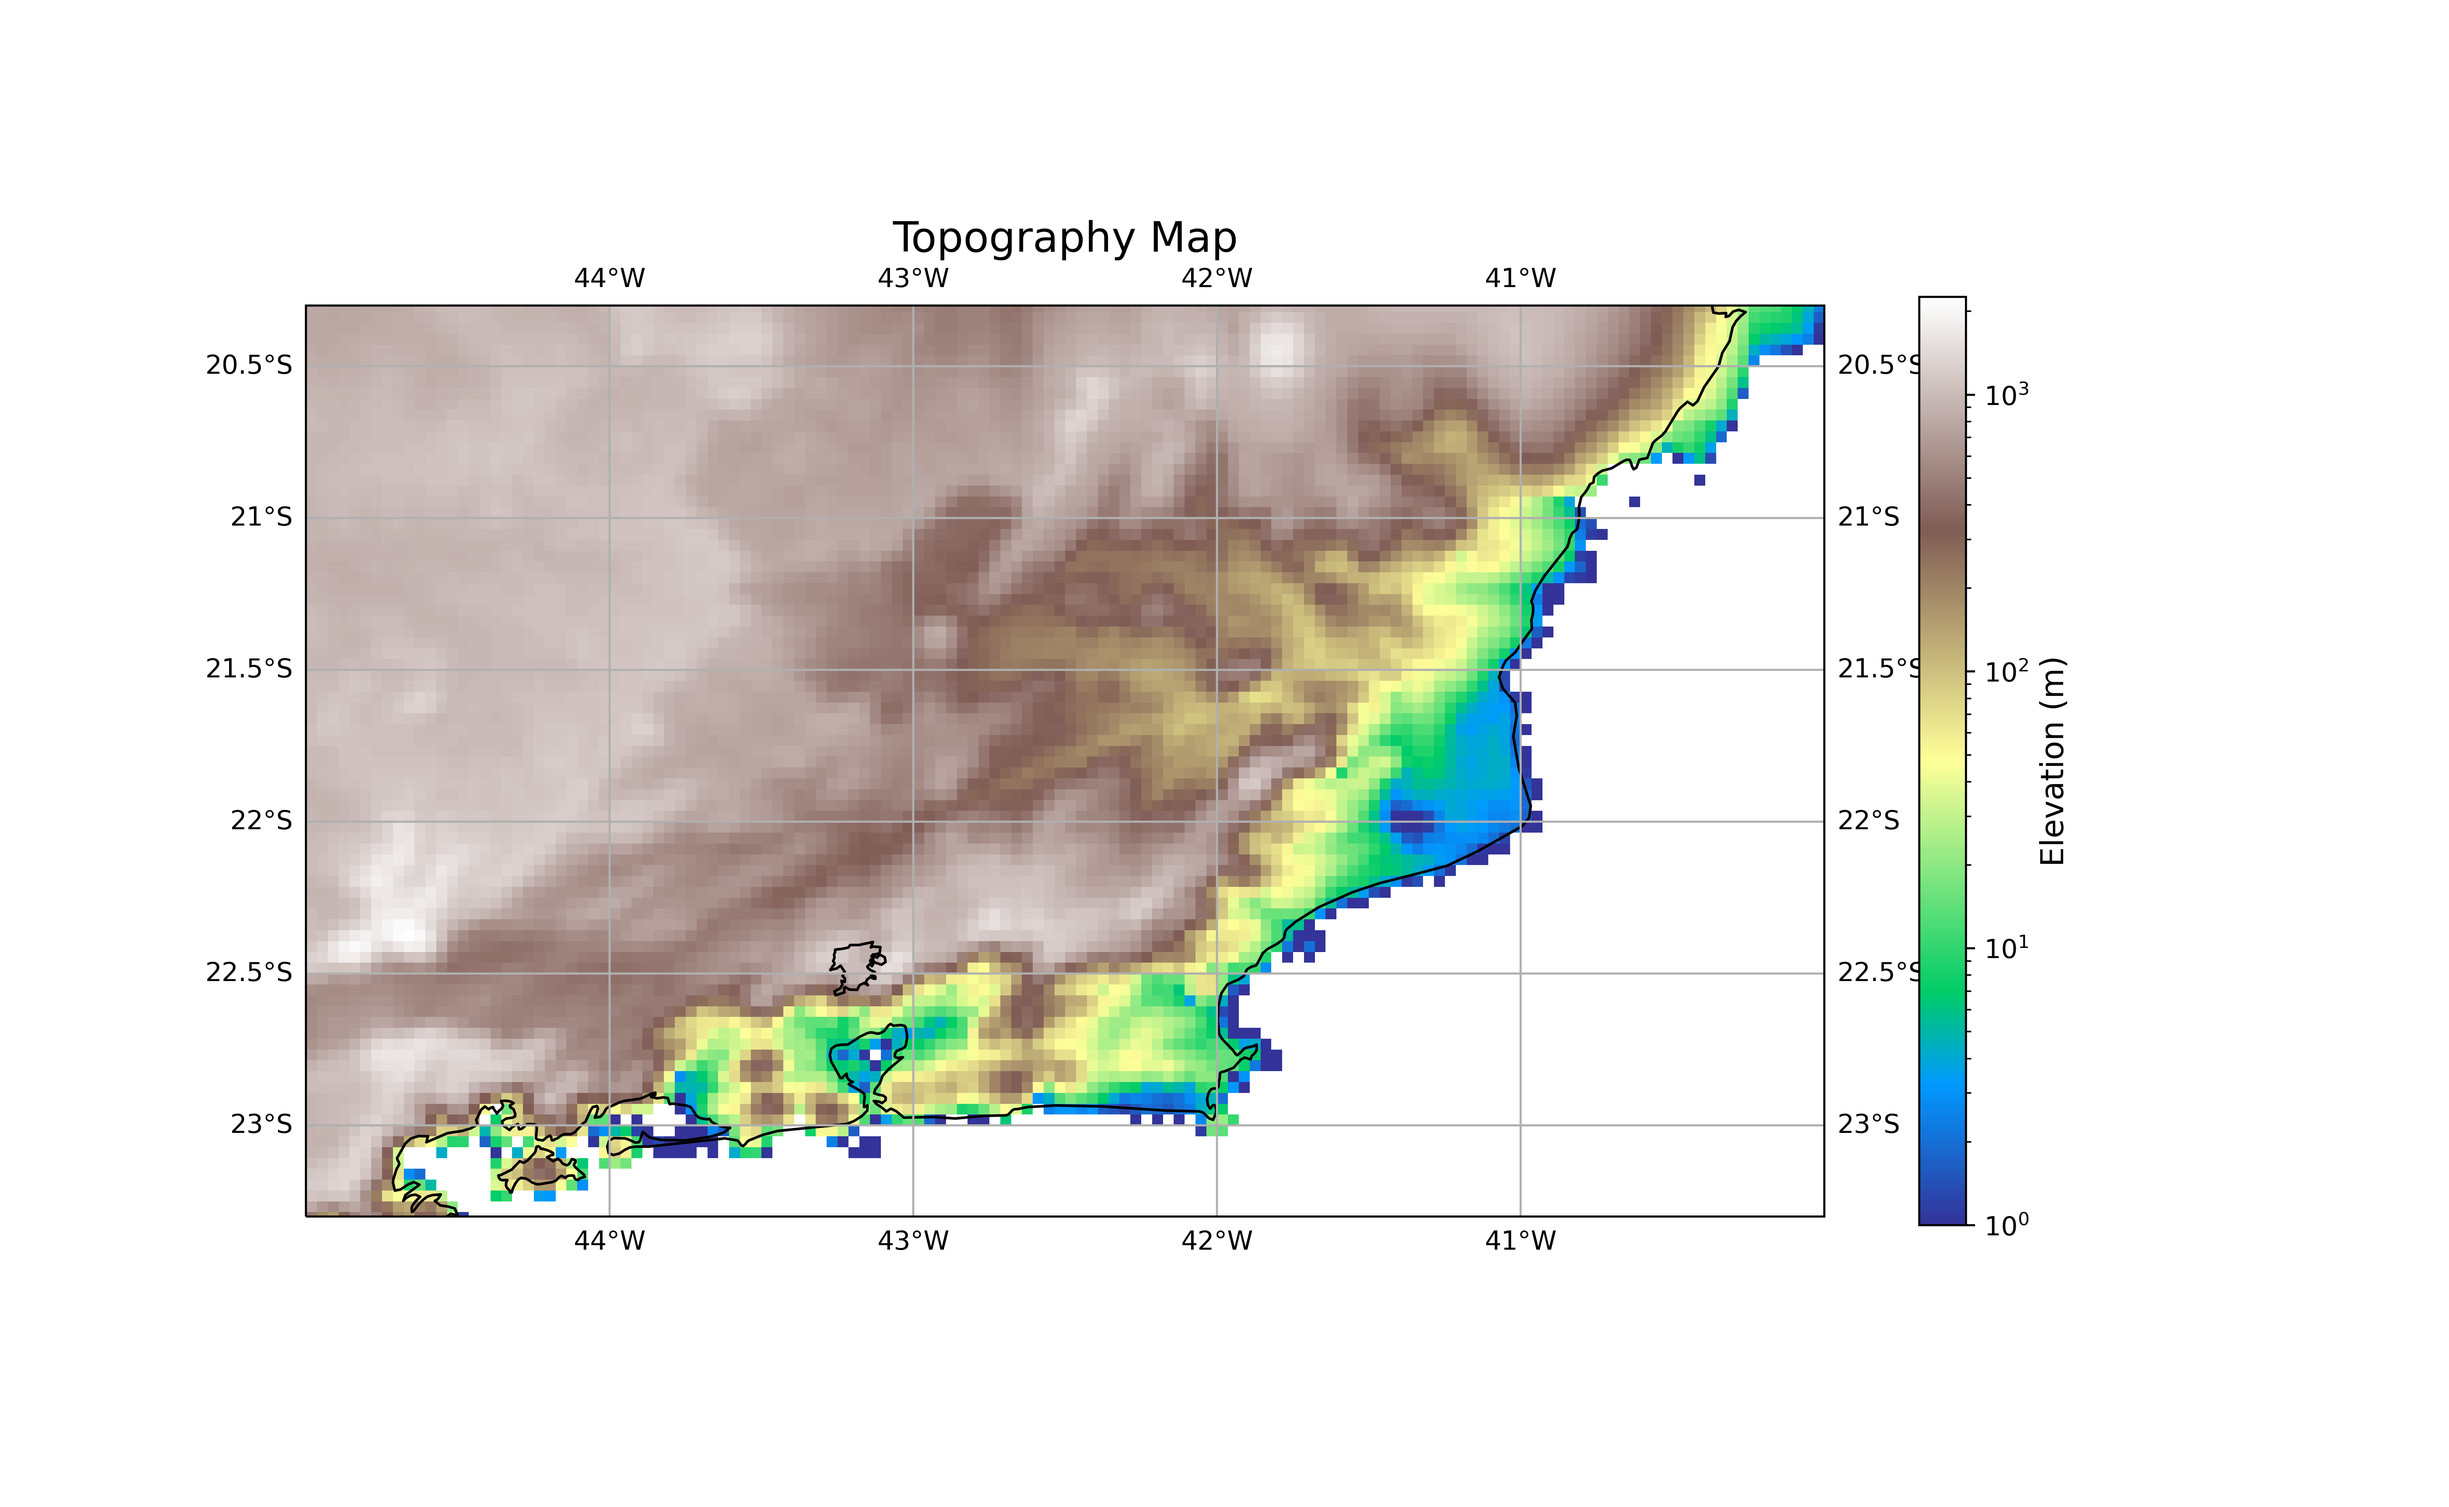
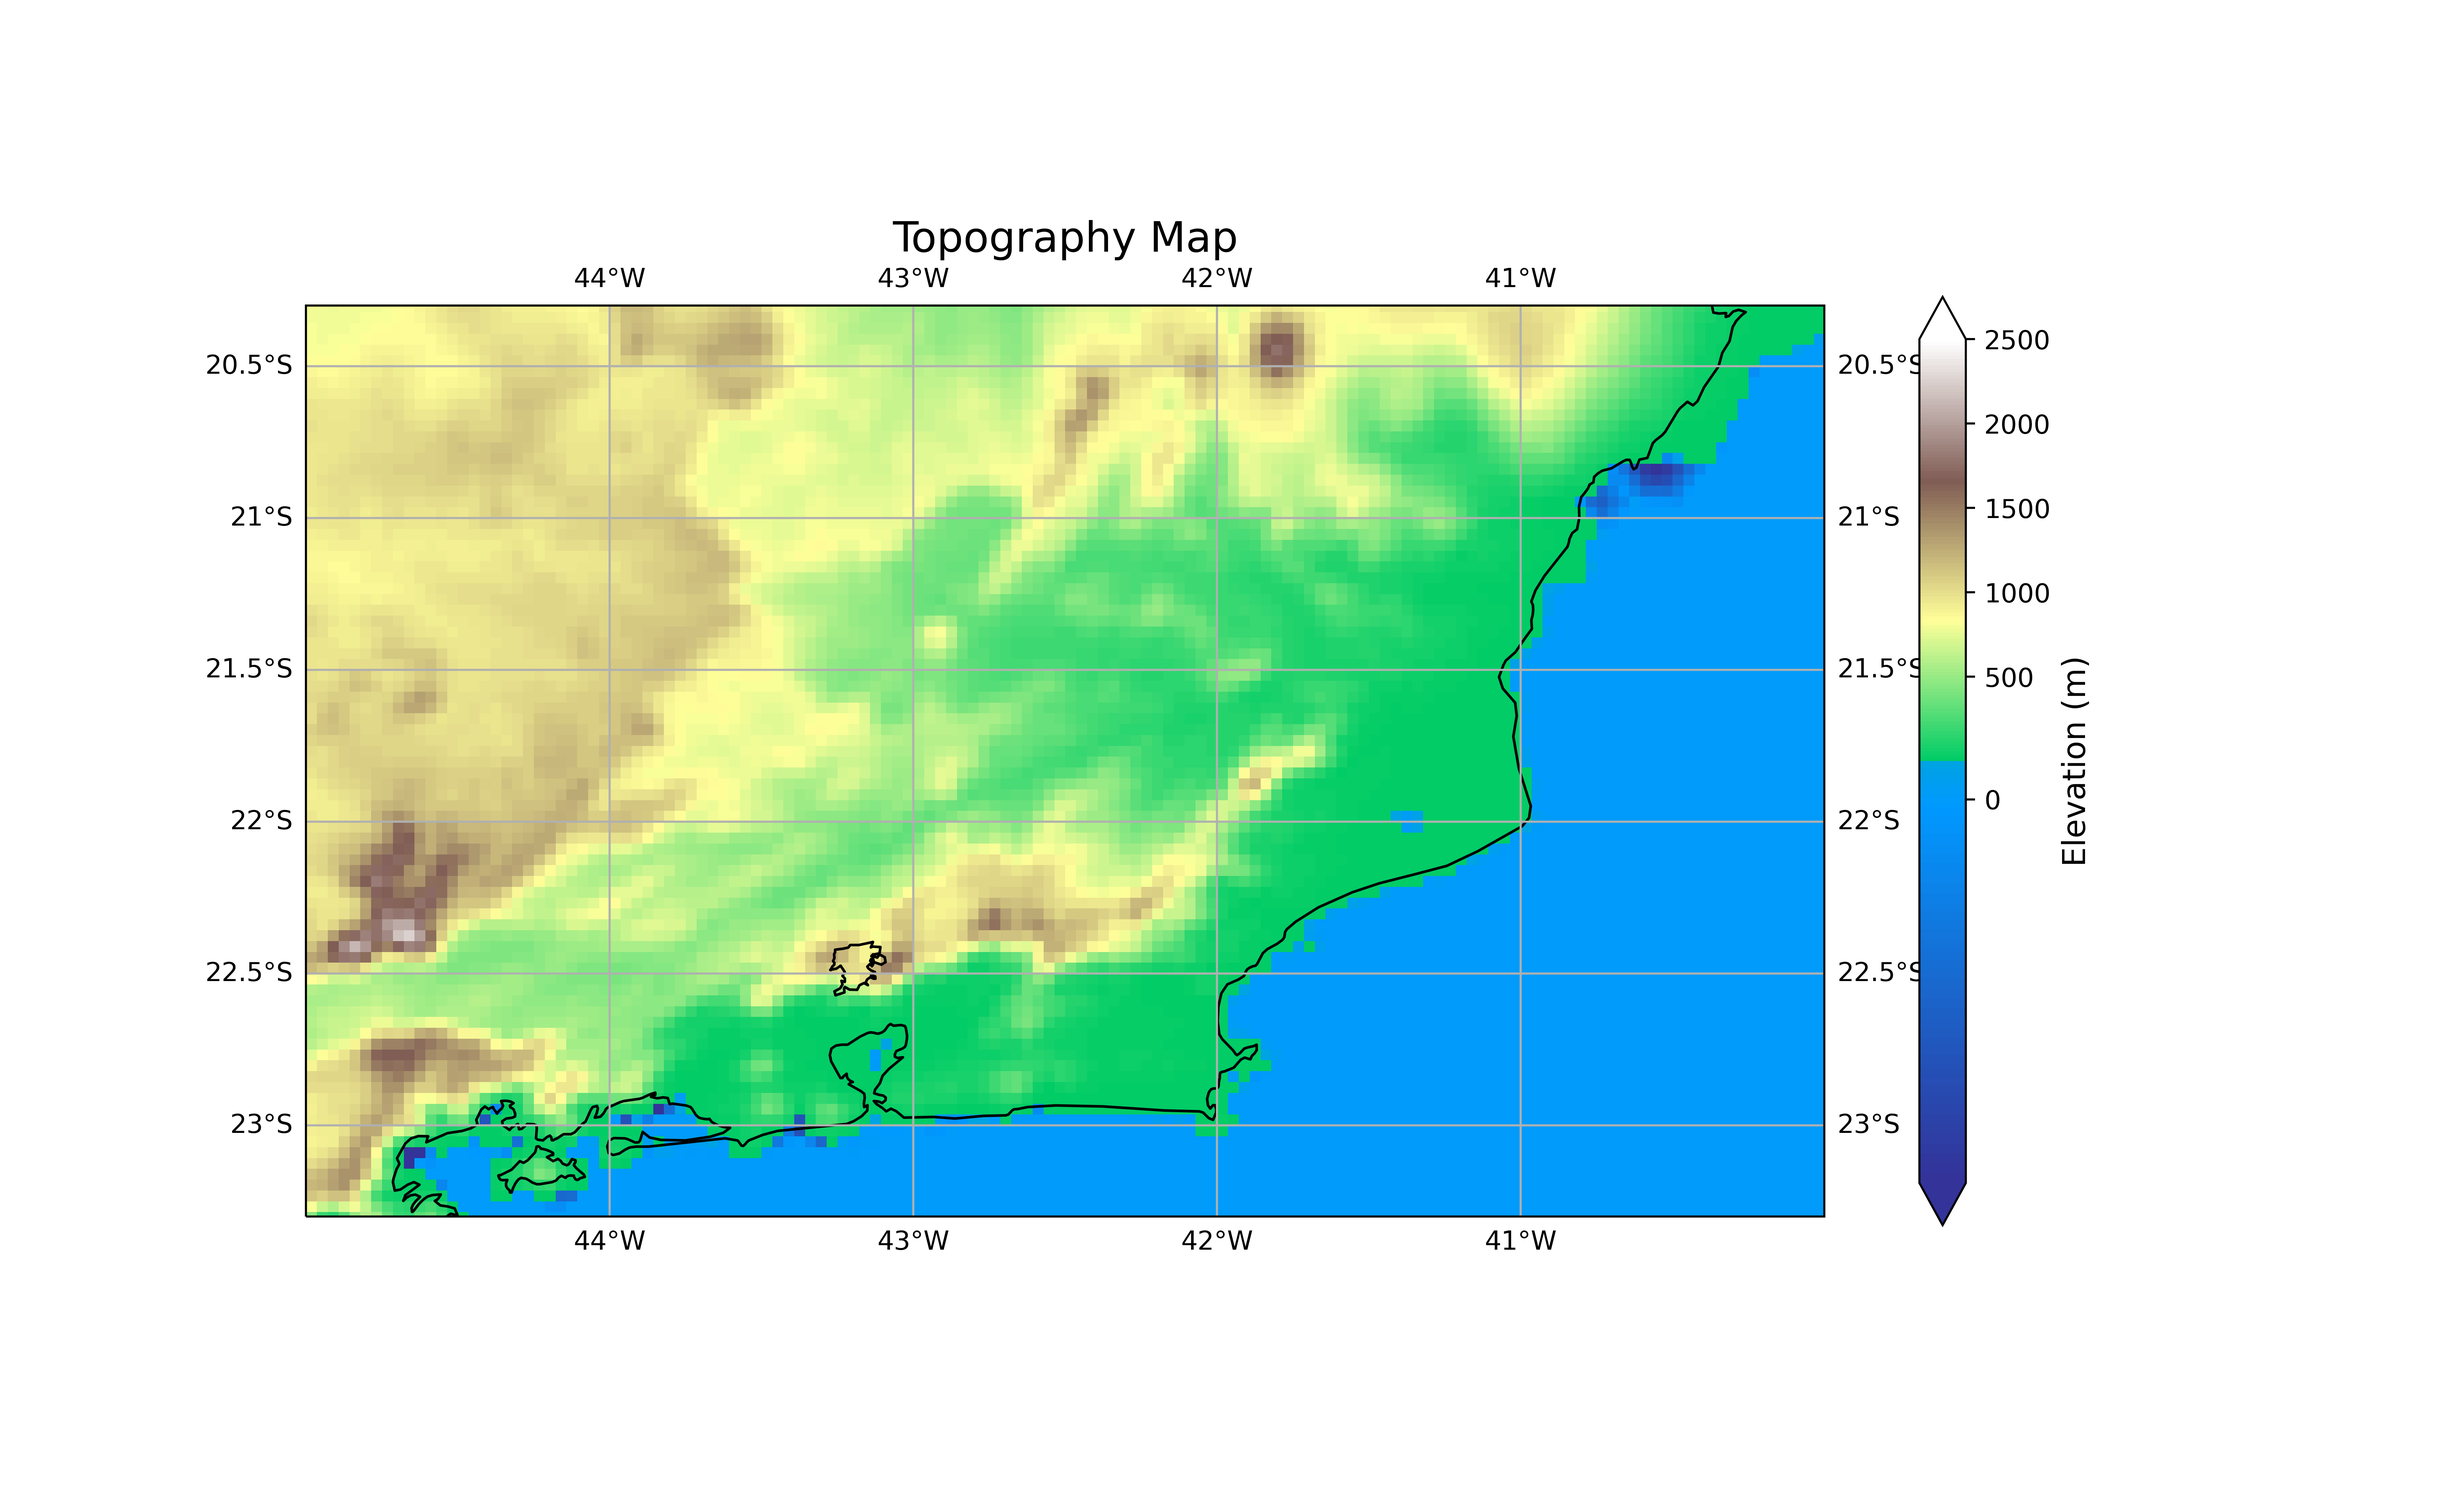
Updated figure

diff --git a/src_figures/topo_mpas.py b/src_figures/topo_mpas.py
@@ -2,9 +2,9 @@ import xarray as xr
 import numpy as np
 
 import cartopy.crs as ccrs
-import matplotlib.colors as colors
 import matplotlib.pyplot as plt 
-from matplotlib.colors import LogNorm
+from matplotlib.colors import TwoSlopeNorm 
+import matplotlib.colors as colors
 
 def convert_longitude(lon):
     """
@@ -95,6 +95,14 @@ petropolis_contour = [
 file = '/p1-nemo/danilocs/mpas/MPAS-BRv7.2/benchmarks/Petropolis_2022/petropolis_250-4km.physics-test/run.petropolis_250-4km.physics-test.microp_mp_thompson.cu_cu_ntiedtke/latlon.nc'
 ds = xr.open_dataset(file)
 
+# make a colormap that has land and ocean clearly delineated and of the
+# same length (256 + 256)
+colors_undersea = plt.cm.terrain(np.linspace(0, 0.17, 256))
+colors_land = plt.cm.terrain(np.linspace(0.25, 1, 256))
+all_colors = np.vstack((colors_undersea, colors_land))
+terrain_map = colors.LinearSegmentedColormap.from_list('terrain_map',
+    all_colors)
+
 topography = ds.zgrid[0]
 topography['longitude'] = convert_longitude(topography['longitude'].values)
 
@@ -104,14 +112,16 @@ minlat, maxlat = -23.30, -20.30
 fig = plt.figure(figsize=(13, 8))
 ax = plt.axes(projection=ccrs.PlateCarree())
 
+norm = TwoSlopeNorm(vmin=-10, vcenter=1, vmax=2500)
+
 # Plot the topography data
-cmap = plt.get_cmap('terrain')  # You can change the colormap as desired
 ax.set_extent([minlon, maxlon, minlat, maxlat])
 im = ax.pcolormesh(topography['longitude'], topography['latitude'],
-                    topography, cmap=cmap, norm=LogNorm(vmin=1, vmax=topography.max()), transform=ccrs.PlateCarree())
+                    topography, cmap=terrain_map, rasterized=True, norm=norm,
+                      transform=ccrs.PlateCarree())
 
 # Add colorbar
-cbar = plt.colorbar(im, ax=ax, orientation='vertical', shrink=0.8, pad=0.05, aspect=20)
+cbar = plt.colorbar(im, ax=ax, orientation='vertical', shrink=0.8, pad=0.05, aspect=20, extend='both')
 cbar.set_label('Elevation (m)', fontsize=12)
 
 petropolis_contour = np.array(petropolis_contour)  # Convertendo para uma matriz numpy
